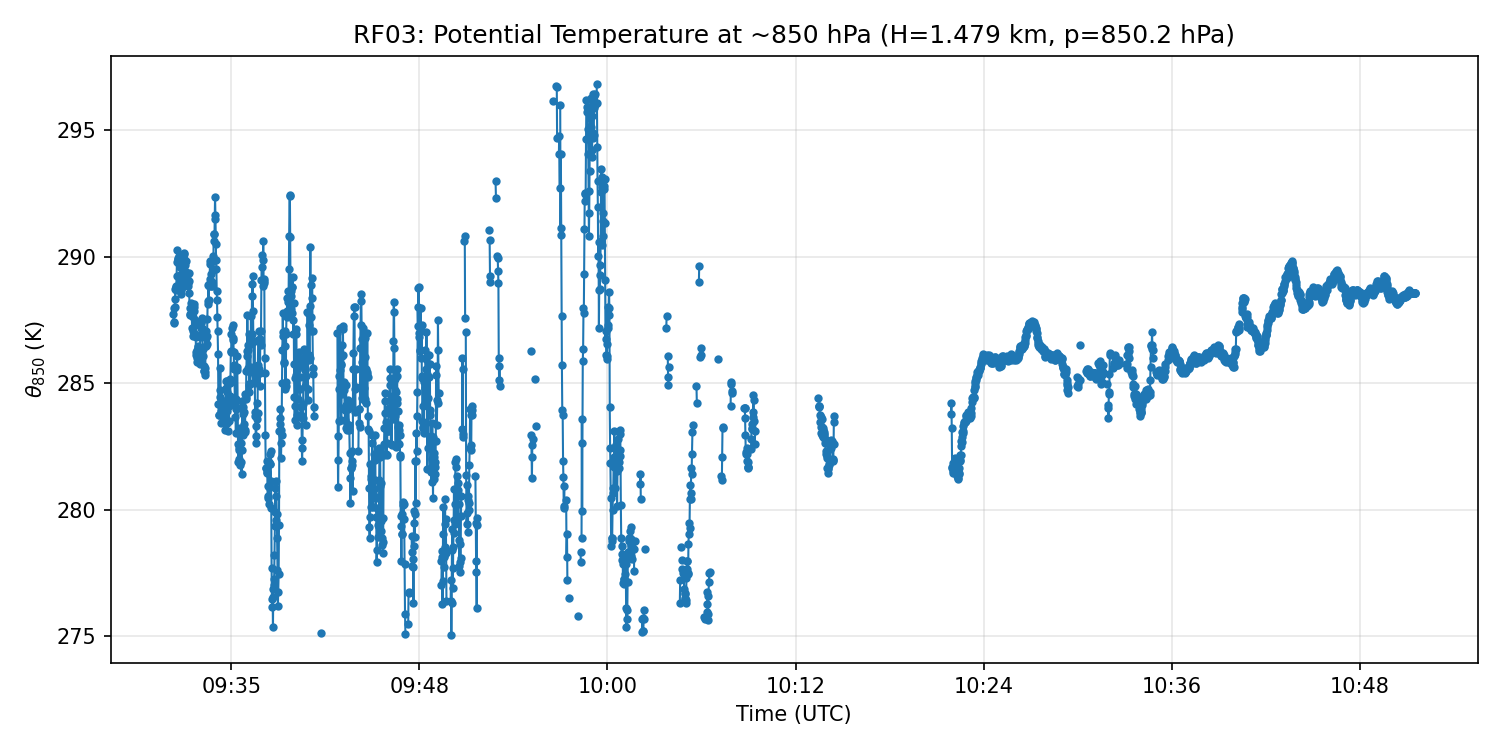
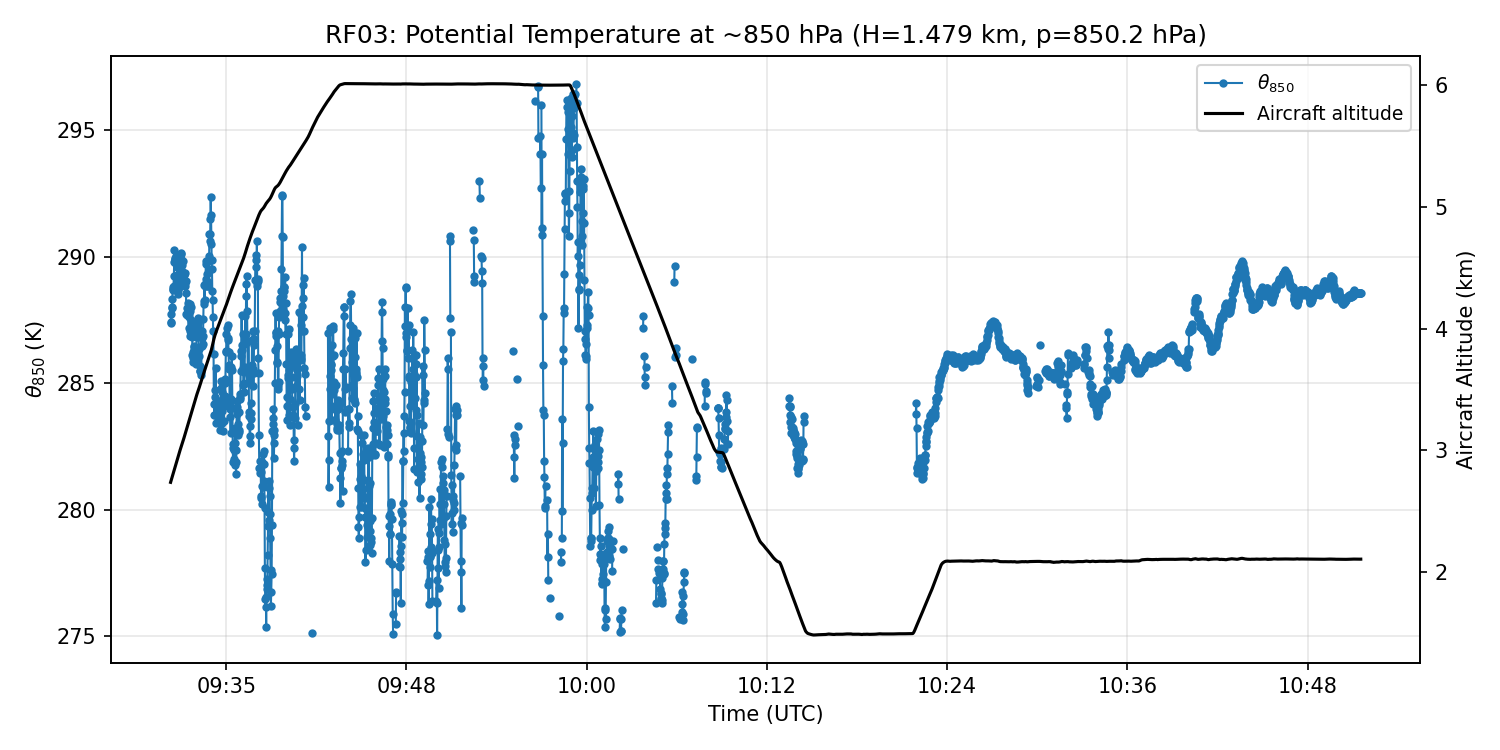
add alt to theta850 plots

diff --git a/src/638-021/potential_temperature.py b/src/638-021/potential_temperature.py
@@ -8,8 +8,11 @@ import matplotlib.pyplot as plt
 import numpy as np
 
 from nc.flights import FLIGHTS, MARLI_FILES
-from nc.loader import PROJECT_ROOT, open_dataset
+from nc.loader import DATASET_VARS, PROJECT_ROOT, open_dataset
 from nc.time import utc_hours_to_datetime64
+
+_vars = DATASET_VARS["638-021"]
+ALTITUDE = _vars["altitude"]
 
 DATASET = "638-021"
 PLOTS_DIR = os.path.join(PROJECT_ROOT, f"output/{DATASET}/plots/potential_temperature")
@@ -70,13 +73,10 @@ def potential_temperature(t_celsius: np.ndarray, p_hpa: float) -> np.ndarray:
     return t_kelvin * (1000.0 / p_hpa) ** KAPPA
 
 
-def _extract_theta_850_from_file(
-    filename: str,
-) -> tuple[np.ndarray, np.ndarray, float, float]:
-    with open_dataset(DATASET, filename) as ds:
-        H = ds["H"].values  # bin height (MSL), km
-        T = ds["T"].values  # atmospheric temperature, degC
-        time = ds["time"].values  # UTC time
+def _extract_theta_850(ds) -> tuple[np.ndarray, np.ndarray, float, float]:
+    H = ds["H"].values  # bin height (MSL), km
+    T = ds["T"].values  # atmospheric temperature, degC
+    time = ds["time"].values  # UTC time
 
     # convert all height bins to pressure
     p_levels = height_to_pressure(H)
@@ -98,11 +98,14 @@ def compute_theta_850(flight: str) -> dict:
 
     all_time = []
     all_theta = []
+    all_alt = []
     h_actual = None
     p_actual = None
 
     for filename in filenames:
-        time, theta, h, p = _extract_theta_850_from_file(filename)
+        with open_dataset(DATASET, filename) as ds:
+            time, theta, h, p = _extract_theta_850(ds)
+            all_alt.append(ds[ALTITUDE].values)
         all_time.append(time)
         all_theta.append(theta)
         if h_actual is None:
@@ -111,6 +114,7 @@ def compute_theta_850(flight: str) -> dict:
 
     time_hours = np.concatenate(all_time)
     theta_850 = np.concatenate(all_theta)
+    altitude = np.concatenate(all_alt)
 
     date_str = FLIGHTS[flight]
     time_dt = utc_hours_to_datetime64(time_hours, date_str)
@@ -119,6 +123,7 @@ def compute_theta_850(flight: str) -> dict:
         "time": time_dt,
         "time_utc_hours": time_hours,
         "theta_850": theta_850,
+        "altitude": altitude,
         "h_850": h_actual,
         "p_850": p_actual,
     }
@@ -130,14 +135,24 @@ def plot_theta_850(flight: str, result: dict) -> str:
 
     time = result["time_utc_hours"]
     theta = result["theta_850"]
+    alt = result["altitude"]
 
     fig, ax = plt.subplots(figsize=(10, 5))
-    ax.plot(time, theta, marker="o", markersize=3, linewidth=1)
+    ax.plot(time, theta, marker="o", markersize=3, linewidth=1, label="$\\theta_{850}$")
     ax.xaxis.set_major_formatter(
         plt.FuncFormatter(lambda h, _: f"{int(h):02d}:{int((h % 1) * 60):02d}")
     )
     ax.set_xlabel("Time (UTC)")
     ax.set_ylabel("$\\theta_{850}$ (K)")
+
+    ax2 = ax.twinx()
+    ax2.plot(time, alt, color="black", linewidth=1.5, label="Aircraft altitude")
+    ax2.set_ylabel("Aircraft Altitude (km)")
+
+    lines, labels = ax.get_legend_handles_labels()
+    lines2, labels2 = ax2.get_legend_handles_labels()
+    ax.legend(lines + lines2, labels + labels2, loc="upper right", fontsize=9)
+
     ax.set_title(
         f"{flight}: Potential Temperature at ~850 hPa "
         f"(H={result['h_850']:.3f} km, p={result['p_850']:.1f} hPa)"
